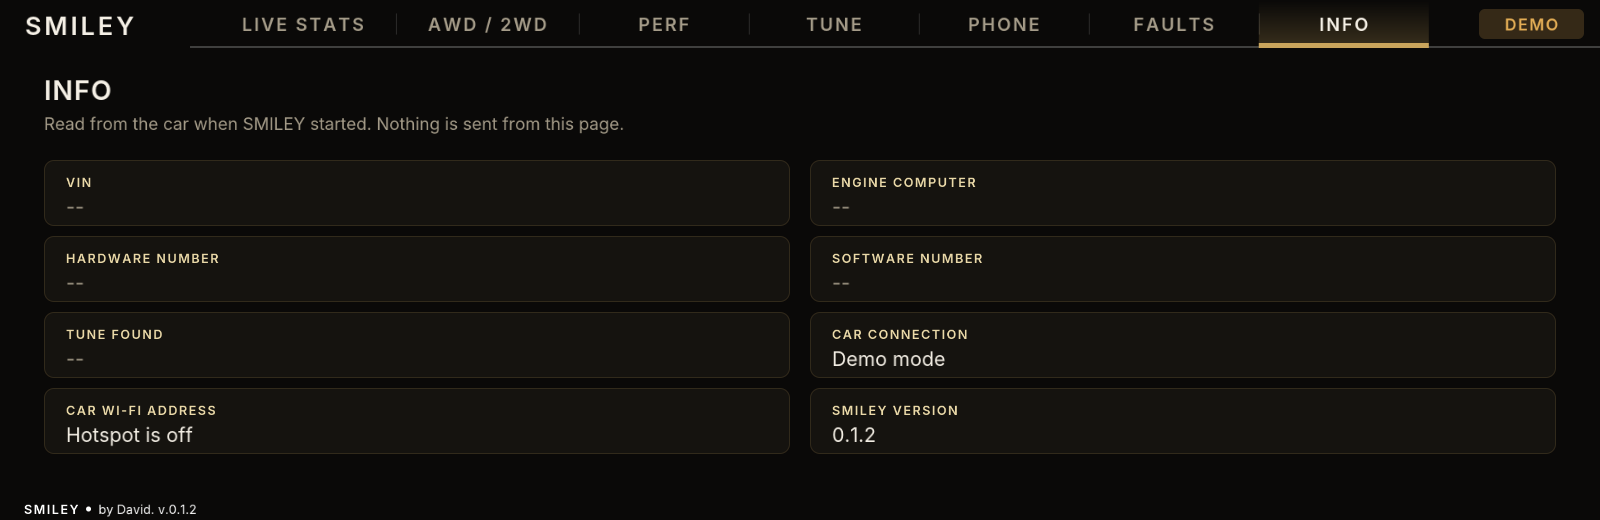
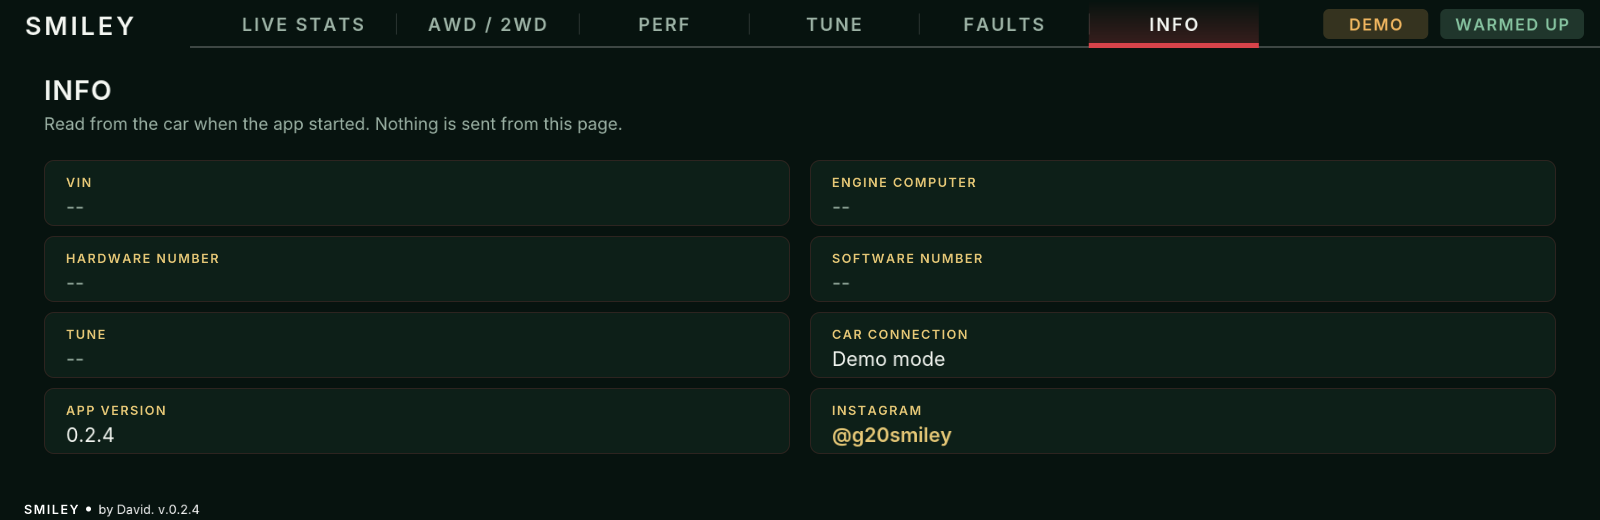
0.2.5: fast gauges read together in one request; layouts are a Settings choice; README brought up to date
- telemetry: the fast gauges on screen go out in one 22 request once each
  has answered alone (its identifier and data length are then known); the
  reply is split by those lengths. Three replies in a row that do not add
  up end batching for the session and the gauges carry on one at a time.
- The six-gauge page is as it was before 0.2.3 (no Layout button). The
  other layouts are chosen under Settings > Live Stats layout.
- README: big number mode, warm-up light, the four layouts, start-up
  animation, new screenshots.

diff --git a/apps/smiley/telemetry.js b/apps/smiley/telemetry.js
@@ -1,6 +1,7 @@
 'use strict';
 // Scaling and DID candidates derived from upstream car.js, M Vitals and Live Data.
 const { DidReader } = require('./kit/dids');
+const { split } = require('./kit/sgbd');
 const Car = require('./kit/car');
 const Sim = require('./kit/sim');
 const fs = require('fs');
@@ -23,11 +24,25 @@ const SLOW_MS = 1000;
 const STANDARD_BARO = 101.3;      // kPa, used for boost until the car reports its outside air pressure
 const RETRY_MS = 2000;           // a reading that has worked before is asked again this soon after it fails
 const GAP_MS = 25;
+const BATCH_MAX = 8;                 // identifiers in one request, as the kit's own link allows
+const BATCH_GIVE_UP = 3;             // batches that do not add up before the session goes back to one at a time
+/** A value out of a one-identifier reply (62 hi lo data...), scaled as kit/dids.js read() does; null when it does not fit. */
+function decodeDid(c, uds) {
+    const at = 3 + (c.at || 0), n = c.bytes || 1;
+    if (uds.length < at + n) return null;
+    let raw = 0;
+    for (let i = 0; i < n; i++) raw = raw * 256 + uds[at + i];
+    if (c.signed && raw >= Math.pow(2, 8 * n - 1)) raw -= Math.pow(2, 8 * n);
+    if (c.bit != null) raw = (raw >> c.bit) & 1;
+    const v = raw * (c.factor == null ? 1 : c.factor) + (c.offset || 0);
+    return (c.min != null && v < c.min) || (c.max != null && v > c.max) ? null : v;
+}
 class Telemetry {
     constructor(ctx, session, clock) {
         this.ctx = ctx; this.session = session; this.clock = clock || Date.now;
         this.values = {}; this.times = {}; this.fail = {}; this.next = {}; this.answered = {};
         this.reader = null; this.link = null; this.index = 0; this.quickTurn = 0;
+        this.batch = {}; this.batchFails = 0; this.batchOff = false; this.batched = 0;          // see pollBatch()
         this.focus = null;           // the gauges on screen (ids), read fastest: setFocus()
         // selector position per source: 'P' | 'R' | 'N' | 'D', or null when that source cannot tell
         this.stages = {};
@@ -143,9 +158,14 @@ class Telemetry {
         // third turn to the others left one fast gauge without a turn whenever three were on screen
         // (on the default first page that was the boost).
         const slowTurn = slow && (this.index % 3 === 0 || !quick.length);
-        const k = slowTurn ? slow : quick.length ? quick[this.quickTurn++ % quick.length] : null;
-        if (!k) return;
         const done = () => { this.lastAsk = this.clock(); };
+        // the gauges on screen that have each answered on their own go out together in one request
+        const together = slowTurn || this.batchOff ? [] : this.batchable(quick);
+        // (a gauge that has not answered alone yet, or cannot go in a batch, still gets every other turn)
+        const alone = together.length >= 2 ? quick.filter((q) => together.indexOf(q) < 0) : quick;
+        if (together.length >= 2 && !(alone.length && this.index % 2 === 0)) return this.session.poll(() => this.pollBatch(together).then(done, done));
+        const k = slowTurn ? slow : alone.length ? alone[this.quickTurn++ % alone.length] : null;
+        if (!k) return;
         if (k === 'misfire') return this.session.poll(() => this.readMisfire().then(done, done));
         return this.session.poll(async () => {
             let candidates = (this.cfg[k] || []).map((c) => Object.assign({}, c, { timeoutMs: 900 }));
@@ -155,7 +175,7 @@ class Telemetry {
             if (at >= 0 && candidates[at]) candidates = [candidates[at]];
             const v = await this.reader.value(k, candidates);
             if (at >= 0 && picks) picks[k] = at;       // value() counted within the short list: keep the place in the full one
-            if (v !== null) { this.put(k, v); this.fail[k] = 0; this.answered[k] = true; this.next[k] = k === 'baro' ? this.clock() + 60000 : fast.indexOf(k) >= 0 ? 0 : this.clock() + SLOW_MS; }
+            if (v !== null) { this.learnBatch(k); this.put(k, v); this.fail[k] = 0; this.answered[k] = true; this.next[k] = k === 'baro' ? this.clock() + 60000 : fast.indexOf(k) >= 0 ? 0 : this.clock() + SLOW_MS; }
             else {
                 this.fail[k] = (this.fail[k] || 0) + 1;
                 // Only a reading this car has never answered is left alone for 30 s. One that has answered
@@ -163,6 +183,46 @@ class Telemetry {
                 if (this.fail[k] >= 2) this.next[k] = this.clock() + (this.answered[k] || k === 'baro' ? RETRY_MS : 30000);
             }
             done();
+        });
+    }
+    /*
+     * Smoother gauges: several identifiers in one request. Asked one at a time, six gauges on screen
+     * take six round trips for one update of each; asked together they take one, so each gauge is
+     * refreshed several times as often. A gauge joins only after it has answered on its own (that
+     * shows which identifier works on this car and how long its data is), and the engine computer's
+     * reply is taken apart by those lengths. A reply that does not add up counts against batching;
+     * after three in a row the session goes back to one at a time, exactly as before.
+     */
+    learnBatch(k) {
+        const list = this.cfg && this.cfg[k], picks = this.reader && this.reader.pick, c = list && picks && list[picks[k] || 0];
+        if (!c || c.obd || !c.did || (c.ecu != null && c.ecu !== 0x12) || !this.reader.raws || !this.reader.key) return;
+        const raw = this.reader.raws[this.reader.key(c)];
+        if (!raw || !raw.ok || !raw.bytes) return;
+        const len = raw.bytes.split(' ').length - 3;
+        if (len > 0) this.batch[k] = { c, did: parseInt(c.did, 16), len };
+    }
+    batchable(keys) {
+        const diag = this.link && this.link.diag, seen = {}, out = [];
+        if (!diag || typeof diag.physical !== 'function') return out;
+        keys.forEach((k) => { const b = this.batch[k]; if (b && !seen[b.did] && out.length < BATCH_MAX) { seen[b.did] = 1; out.push(k); } });
+        return out;
+    }
+    async pollBatch(keys) {
+        const dids = keys.map((k) => this.batch[k].did), data = [], lens = {};
+        keys.forEach((k) => { const b = this.batch[k]; data.push(b.did >> 8, b.did & 0xFF); lens[b.did] = b.len; });
+        let reply = null;
+        try { reply = await this.link.diag.physical(0x12, 0x22, data, 900, (u) => (u[0] === 0x62 && dids.indexOf((u[1] << 8) | u[2]) >= 0) || (u[0] === 0x7F && u[1] === 0x22)); } catch (e) { reply = null; }
+        const parts = reply && reply[0] === 0x62 ? split(reply, lens) : null;
+        if (!parts) {
+            if (++this.batchFails >= BATCH_GIVE_UP) { this.batchOff = true; this.ctx.log.info('gauges: reading several at once is not answered on this car - back to one at a time'); }
+            return;
+        }
+        this.batchFails = 0; this.batched++;
+        keys.forEach((k) => {
+            const b = this.batch[k], u = parts[b.did];
+            if (!u) { delete this.batch[k]; return; }                 // left out of the reply: on its own from now on
+            const v = decodeDid(b.c, u);
+            if (v !== null) { this.put(k, v); this.fail[k] = 0; this.next[k] = 0; }
         });
     }
     /**

diff --git a/apps/smiley/ui.js b/apps/smiley/ui.js
@@ -238,7 +238,7 @@ function surpriseAt(now){
     return {kind,t,dur,p:t/dur,a:r(4),b:r(5)};
 }
 // the free strip: between the hint text on the left and the buttons on the right, under the cards
-const LANE={x0:560,x1:896,top:448,ground:505};
+const LANE={x0:600,x1:970,top:448,ground:505};
 // the drawing calls of cv, moved to (ox, oy) and scaled by k, so a figure drawn around 0,0 fits the strip
 const placed=(cv,ox,oy,k)=>({
     circle:(x,y,r,c)=>cv.circle(ox+x*k,oy+y*k,r*k,c), roundRect:(x,y,w,h,r,c)=>cv.roundRect(ox+x*k,oy+y*k,w*k,h*k,r*k,c),
@@ -454,14 +454,14 @@ function stats(cv,v,a) {
         return;
     }
     text(cv,d.boostMissingBaro?'Boost uses standard air pressure until the car reports its own':v.demo?'Demo data  ·  Nothing is sent to the car':'Tap a gauge to make it big  ·  Hold it to change what it shows',44,490,18,THEME.dim);
-    button(cv,904,456,190,'Reset min/max',a.resetPeaks,'resetPeaks',false,false);
-    button(cv,1102,456,170,'Edit gauges',a.editStart,'editStart',false,false);
-    button(cv,1280,456,176,v.statsPage?'Main gauges':'More gauges',a.statsPage,'statsPage',false,false);
-    button(cv,1464,456,112,'Layout',a.layoutNext,'layoutNext',false,false);
+    button(cv,986,456,190,'Reset min/max',a.resetPeaks,'resetPeaks',false,false);
+    button(cv,1186,456,190,'Edit gauges',a.editStart,'editStart',false,false);
+    button(cv,1386,456,190,v.statsPage?'Main gauges':'More gauges',a.statsPage,'statsPage',false,false);
 }
 /*
- * Other layouts for Live Stats (Settings > Live Stats layout, or the Layout button): Cockpit, Race
- * dash, Graph view and Car view. Each draws in the same area as the six gauges, uses the theme's
+ * Other layouts for Live Stats, chosen under Settings > Live Stats layout: Cockpit, Race dash, Graph
+ * view and Car view. The six gauges are the default and their page is unchanged; only the other
+ * layouts carry a Layout button, which steps on to the next one and back to the six gauges. Each draws in the same area as the six gauges, uses the theme's
  * colours, and a tap on a reading opens it in big number mode.
  */
 const soft=(cv,x,y,w,h,r)=>cv.roundRect(x,y,w,h,r||22,withAlpha(THEME.text,0.05));
@@ -806,7 +806,7 @@ function xdrivePage(cv,v,a) {
     String(note).split(' · ').slice(0,3).forEach((line,i)=>text(cv,line.slice(0,52),1026,362+i*28,19,x.noteType==='go'?THEME.ok:x.noteType==='warn'?THEME.warn:THEME.dim));
     text(cv,'Experimental  ·  Try it in an empty lot first  ·  Traction control may act differently in 2WD  ·  The car stores a fault code while in 2WD',44,490,18,THEME.dim);
 }
-/** The maker's mark, bottom left on every page: SMILEY (dot) by David. v.0.2.4 */
+/** The maker's mark, bottom left on every page: SMILEY (dot) by David. v.0.2.5 */
 function watermark(cv,v) {
     const y=514, size=14, o={font:'bold',spacing:1.5}, W='#ffffff';
     cv.text('SMILEY',24,y,size,W,o);

diff --git a/tests/test-smiley.js b/tests/test-smiley.js
@@ -132,6 +132,19 @@ async function run(){
   for(const k of ['boost','oilp','hpfp'])assert(n[k]>=50,k+' was read '+(n[k]||0)+' times');
   assert(n.iat>=5,'the slower readings still get their turns');assert(t.snapshot(false).boost!==null);
  });
+ await test('Gauges on screen are read together in one request once each has answered alone; a car that refuses goes back to one at a time',async()=>{
+  const {DidReader}=require(path.join(APP,'kit/dids'));
+  const cfg={boost:[{did:'4205',bytes:2,factor:0.01}],hpfp:[{did:'4206',bytes:2}],lpfp:[{did:'4207',bytes:1,offset:-40}],baro:[{did:'4208',bytes:1}]};
+  const car=(multi)=>{const d={sent:[],val:{0x4205:[0x27,0x10],0x4206:[0x00,0xC8],0x4207:[0x49],0x4208:[0x65]},physical:async(ecu,sid,data)=>{d.sent.push(data.length/2);if(data.length>2&&!multi)return [0x7F,0x22,0x31];let r=[0x62];for(let i=0;i<data.length;i+=2){const id=(data[i]<<8)|data[i+1];r=r.concat([data[i],data[i+1]],d.val[id]);}return r;}};return d;};
+  const run=async(multi)=>{let now=1e6;const d=car(multi),t=new Telemetry(ctx(),{poll:(fn)=>fn()},()=>now);t.cfg=cfg;t.link={available:true,diag:d};t.reader=new DidReader(d,{ecu:0x12});t.setFocus(['boost','hpfp','lpfp']);for(let i=0;i<60;i++){await t.poll();now+=40;}return {t,d};};
+  const a=await run(true);
+  assert(a.t.batched>=30,'most requests carry all three gauges: '+a.t.batched);assert(a.d.sent.some((n)=>n===3));assert(!a.t.batchOff);
+  assert.equal(a.t.values.hpfp,200);assert.equal(a.t.values.lpfp,33);assert(Math.abs(a.t.values.boost-100)<1e-9,'the values from a batch are scaled like single reads');
+  a.d.val[0x4206]=[0x01,0x90];let now2=2e6;a.t.clock=()=>now2;await a.t.poll();assert.equal(a.t.values.hpfp,400,'a new value arrives through the batch');
+  const b=await run(false);
+  assert(b.t.batchOff,'three refusals end batching');assert.equal(b.t.batched,0);assert.equal(b.d.sent.filter((n)=>n>1).length,3);
+  assert.equal(b.t.values.hpfp,200);assert.equal(b.t.values.lpfp,33);assert(b.d.sent.filter((n)=>n===1).length>30,'and the gauges carry on one at a time');
+ });
  await test('Misfire counts are summed per driving cycle; an engine without them is left alone',async()=>{
   const t=new Telemetry(ctx(),new Session(),()=>1000);let asked=0;
   t.reader={monitor:async(ecu,mid,did)=>{asked++;assert.equal(ecu,0x12);return did?null:[{tid:0x0C,value:mid===0xA4?3:0},{tid:0x0B,value:99}];}};

diff --git a/tests/test-edit-gauges.js b/tests/test-edit-gauges.js
@@ -45,12 +45,14 @@ setTimeout(async()=>{
   await tap('big-rpm');await tap('editStart').then(()=>assert.fail('no Edit button while a gauge is big'),()=>{});await tap('bigClose');
   await tap('editStart');assert(!targets().some((t)=>/^big-/.test(t.key)),'no big mode while editing');await tap('editDone');
   // the Layout button steps through the other layouts and back to the six gauges; each opens big number mode
+  assert.equal(hu.ctx.settings.get('statsLayout'),'grid','six gauges is the default');assert(!targets().some((t)=>t.key==='layoutNext'),'the six-gauge page has no Layout button');
+  hu.ctx.settings.set('statsLayout','cockpit');
   for(const name of ['cockpit','race','graphs','car']){
-    await tap('layoutNext');assert.equal(hu.ctx.settings.get('statsLayout'),name);
+    await hu.loopFn();assert.equal(hu.ctx.settings.get('statsLayout'),name);
     assert(!targets().some((t)=>t.key==='editStart'),name+' has no gauge editor');assert(targets().some((t)=>t.key==='big-boost'),name+' shows boost');
-    await tap('big-boost');assert(targets().some((t)=>t.key==='bigClose'));await tap('bigClose');assert(targets().some((t)=>t.key==='layoutNext'));
+    await tap('big-boost');assert(targets().some((t)=>t.key==='bigClose'));await tap('bigClose');await tap('layoutNext');
   }
-  await tap('layoutNext');assert.equal(hu.ctx.settings.get('statsLayout'),'grid');assert(targets().some((t)=>t.key==='editStart'));
+  assert.equal(hu.ctx.settings.get('statsLayout'),'grid','after Car view the Layout button goes back to the six gauges');assert(targets().some((t)=>t.key==='editStart'));
   console.log('PASS hold-to-edit: quick taps and drags ignored, hold opens the pick list, choose from it, default layout and done');process.exit(0);
  }catch(e){console.error(e.stack);process.exit(1);}
 },700);

diff --git a/apps/smiley/main.js b/apps/smiley/main.js
@@ -267,7 +267,7 @@ mgu.run({async start(ctx){
         repaint();
     });
     if(ui.onVisible)ui.onVisible((name,on)=>{if(name==='MAIN')visible=on;});
-    link.onAvailable((on)=>{refreshPending=!!on&&!session.demo;identTries=0;identAt=Date.now();telemetry.times={};tune._reset();controller.state.accepted=null;controller.state.confirmed='UNKNOWN';});
+    link.onAvailable((on)=>{refreshPending=!!on&&!session.demo;identTries=0;identAt=Date.now();telemetry.times={};telemetry.batchFails=0;telemetry.batchOff=false;tune._reset();controller.state.accepted=null;controller.state.confirmed='UNKNOWN';});
     // No map/exhaust/fault-clear action at startup. Tuners and exhaust ship disabled.
     if(!session.demo&&!session.paused)await action(refresh)();
     setInterval(()=>{

diff --git a/tests/test-merged-themes.js b/tests/test-merged-themes.js
@@ -19,7 +19,7 @@ const tap=async key=>{await hu.loopFn();const t=targets().find(t=>t.key===key);a
 const sleep=ms=>new Promise(r=>setTimeout(r,ms));
 setTimeout(async()=>{
  try{
-  assert.equal(hu.spec.version,'0.2.4');assert.equal(UI.TABS.length,9);
+  assert.equal(hu.spec.version,'0.2.5');assert.equal(UI.TABS.length,9);
   const themes=hu.spec.settings.find(s=>s.key==='theme').options.map(o=>o[0]);
   assert.deepStrictEqual(themes,['smiley','l_burgundy','j_amethyst','l_midnight','s_green','s_m','spider','xmas','xmas_red','custom']);
   setting('customA','teal');setting('customB','gold');setting('customBg','graphite');

diff --git a/README.md b/README.md
@@ -6,11 +6,11 @@
 
 **Your BMW's engine, tune, faults and performance timers, on the car's own screen.**
 
-An app for the iDrive 7 head unit (MGU) &nbsp;·&nbsp; Version 0.2.4 &nbsp;·&nbsp; by David Myat
+An app for the iDrive 7 head unit (MGU) &nbsp;·&nbsp; Version 0.2.5 &nbsp;·&nbsp; by David Myat
 
 [Take the tour](#the-tour) &nbsp;·&nbsp; [Themes](#ten-looks) &nbsp;·&nbsp; [Connect / Flash beta](#connect-and-flash-beta) &nbsp;·&nbsp; [Install](#install) &nbsp;·&nbsp; [Read this first](#read-this-first)
 
-<img src="docs/screenshots/live-stats.png" alt="Live Stats: eight round engine gauges on a black and gold screen">
+<img src="docs/screenshots/live-stats.png" alt="Live Stats: six engine gauges, signal bars for the fast readings and dials for the rest">
 
 </div>
 
@@ -22,7 +22,7 @@ An app for the iDrive 7 head unit (MGU) &nbsp;·&nbsp; Version 0.2.4 &nbsp;·&nb
 
 What changed in each version: [release notes](CHANGELOG.md).
 
-Six tabs across the top of the screen in version 0.2.4: Live Stats, AWD / 2WD,
+Six tabs across the top of the screen in version 0.2.5: Live Stats, AWD / 2WD,
 Perf, Tune, Faults and Info. **Phone, Connect and Flash are switched off for
 now**; their sections below describe what they do when they return. The
 screenshots come from the simulation, with demo data.
@@ -46,6 +46,42 @@ misfires. Twelve are on the pages; the other four wait in the pick list.
 Press and hold a gauge, or tap Edit gauges and then a gauge, and choose from
 the list what that place shows.
 
+**Big number mode.** Tap any gauge and it fills the page: one very large
+number, its lowest and highest so far, and a bar showing where it sits on its
+scale. Tap anywhere to go back.
+
+**Warm-up light.** Top right on every tab, from the engine oil temperature:
+blue while the engine is cold, amber while it warms up, green once it is
+ready.
+
+**Smoother gauges.** The fast gauges on screen are asked for together in one
+request, so each one is refreshed more often. If the car does not answer that
+way, the app goes back to asking one at a time by itself.
+
+</td>
+</tr>
+<tr>
+<td colspan="2">
+
+### Live Stats layouts
+
+Settings → Live Stats layout offers four more ways to see the same readings.
+The six gauges are the default and their page is unchanged. In the other
+layouts a Layout button steps on to the next one and back to the six gauges,
+and a tap on any reading opens it in big number mode.
+
+- **Cockpit**: one large RPM ring with boost inside it and four readings
+  around it.
+- **Race dash**: rev bars that rise like a signal meter, and five big numbers.
+- **Graph view**: the last 30 seconds of each reading as a line.
+- **Car view**: the readings around a top view of a car, with each tyre's
+  pressure and temperature. The tyre numbers are samples in the demo; on the
+  car they show "--" until the app knows which signal carries them.
+
+<img src="docs/screenshots/layouts.png" alt="The four extra layouts: Cockpit, Race dash, Graph view and Car view">
+
+<img src="docs/screenshots/big-number.png" width="60%" alt="Big number mode showing boost across the whole page">
+
 </td>
 </tr>
 <tr>
@@ -62,7 +98,7 @@ Experimental, and off until you turn it on in Settings.
 <td width="55%"><img src="docs/screenshots/awd-2wd.png" alt="AWD / 2WD tab"></td>
 </tr>
 <tr>
-<td width="55%"><img src="docs/screenshots/perf.png" alt="Perf tab with the drag timer"></td>
+<td width="55%"><img src="docs/screenshots/perf.png" alt="Perf tab with the drag timer and the History button"></td>
 <td>
 
 ### Perf
@@ -146,8 +182,12 @@ programming adapter is included. A separate warning appears every time you enter
 
 ### Info
 
-The car's VIN, the engine computer's type and numbers, the tune found, and
-the app version. Read once when SMILEY starts.
+The car's VIN, the engine computer's type, hardware and software numbers,
+the tune found, the app version and the maker's Instagram. Read when the app
+starts.
+
+When the app opens, a short start-up animation plays once (Settings can
+switch it off).
 
 </td>
 </tr>
@@ -276,7 +316,7 @@ thing that looks wrong.**
 
 ```sh
 python3 kit/tools/build.py --preview-only smiley   # stage the app without the BMW SDK
-node tests/test-smiley.js                          # 50 integration checks
+node tests/test-smiley.js                          # 51 integration checks
 node tests/test-native-flow.js                     # the app on the head-unit stub
 node tests/test-edit-gauges.js                     # press-and-hold gauge editing
 node tests/test-phone-net.js                       # the phone access helper, against a pretend firewall

diff --git a/CHANGELOG.md b/CHANGELOG.md
@@ -2,6 +2,19 @@
 
 Every version of the app from the first build to now, newest first.
 
+## 0.2.5
+
+- **Smoother gauges.** The fast gauges on screen are now asked for together in
+  one request to the engine computer, so each is refreshed several times as
+  often. A gauge joins only after it has answered on its own, and if the car
+  does not answer combined requests the app goes back to one at a time by
+  itself. Not yet confirmed on a car.
+- The six-gauge page is exactly as before again: the Layout button is gone
+  from it. The other layouts are chosen under Settings → Live Stats layout;
+  inside them a Layout button steps to the next one and back.
+- README updated: big number mode, the warm-up light, the four layouts and new
+  screenshots.
+
 ## 0.2.4
 
 - Car view: each tyre shows its pressure, with its temperature beside it. The
